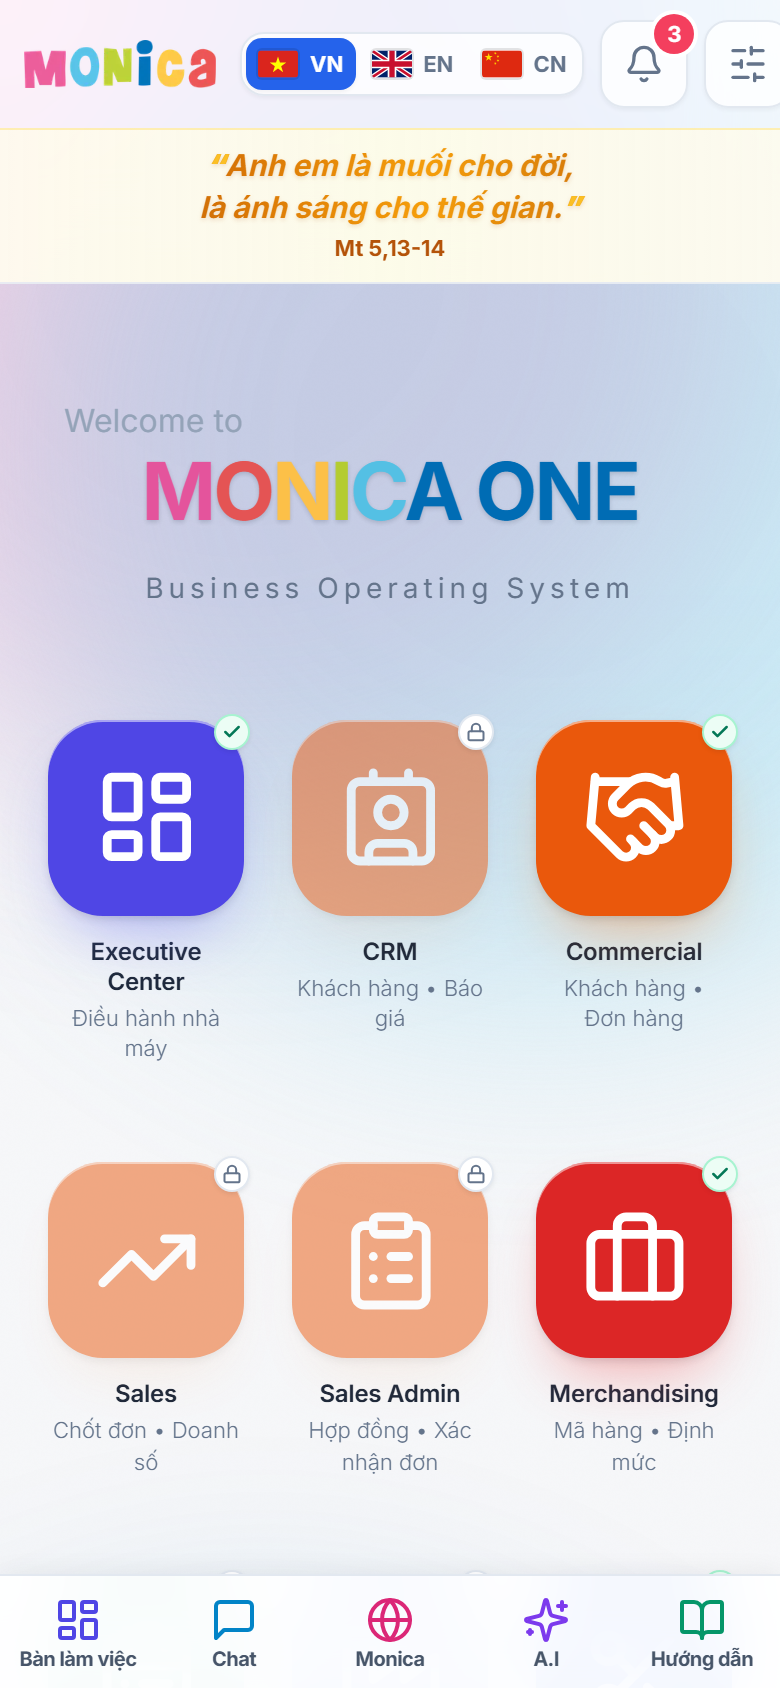
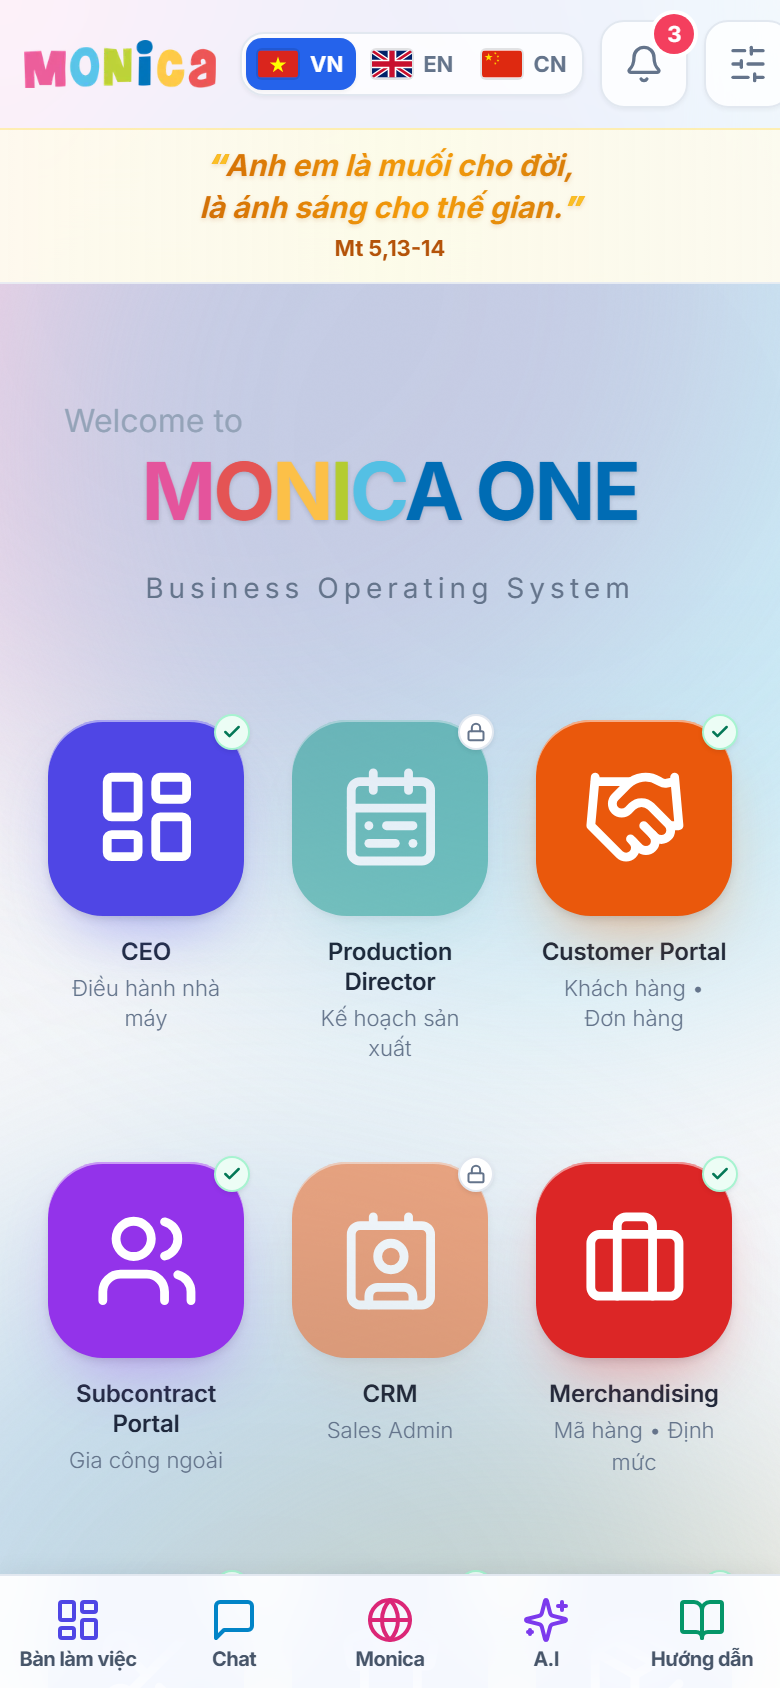
feat(trang chủ): Business Launcher v2 — xếp theo tổ chức doanh nghiệp, 15 ô
Board Directive 06/08/2026 — *Homepage Business Launcher v2*.

TRẬT TỰ — 15 ô, đúng thứ tự Board xếp
  ① CEO · Production Director · Customer Portal · Subcontract Portal · CRM
  ② Merchandising · Cutting · Sewing · Finishing · Quality
  ③ Kho NPL · Kho thành phẩm · Shipment · Finance · Human Resources

ĐỔI TÊN
  Executive Center → CEO          · Planning   → Production Director
  Commercial       → Customer Portal · Subcontract → Subcontract Portal
Phụ đề: Quality → "QA • QC • KCS" · CRM → "Sales Admin" ·
        Subcontract → "Gia công ngoài" · Finance → "Kế toán"

ẨN 9 Ô — ⛔ KHÔNG XOÁ MODULE NÀO
`AN_KHOI_TRANG_CHU` chỉ điều khiển Trang chủ. Chín App vẫn nằm trong `MODULES`,
vẫn có route, vẫn chịu đúng phân quyền cũ — đúng câu Board ghi: *"Modules remain
in the system and can still be accessed by route or permission."*

⚠ MỘT CHỖ LỆCH TRONG CHỈ THỊ — tôi đọc thế này, Board đính chính nếu sai:
Danh sách ẩn của Board có `Planning`, nhưng hàng đầu lại có `Production
Director`, mà chính Board chỉ định `Planning → Production Director`. Hai điều
⛔ không thể cùng đúng. ⇒ Tôi GIỮ `planning` *(nay là Production Director)* và
ẩn `salesAdmin` thay vào — vì Board đã đưa "Sales Admin" xuống làm **phụ đề của
CRM**, tức nó thôi đứng riêng. Cách đọc này cho đúng **15 hiện · 9 ẩn**.
Muốn ngược lại: đổi đúng một dòng trong `AN_KHOI_TRANG_CHU`.

LƯỚI — ⛔ không tiêu đề, ⛔ không vạch ngăn, ⛔ không nhóm
Vẫn là MỘT lưới phẳng như màn hình điện thoại. "Ba hàng" chỉ là hệ quả của 5
[…]

diff --git a/lib/mos/registry/business-apps.ts b/lib/mos/registry/business-apps.ts
@@ -148,7 +148,7 @@ export type ModuleItem = ModuleReady | ModuleComingSoon;
 
 // ─── ① ĐIỀU HÀNH ────────────────────────────────────────────────────────────
 const DIEU_HANH: ModuleItem[] = [
-  { id: 'executive', name: 'Executive Center', descKey: 'appDesc.executive', shortKey: 'appShort.executive', valueKey: 'appValue.executive',
+  { id: 'executive', name: 'CEO', descKey: 'appDesc.executive', shortKey: 'appShort.executive', valueKey: 'appValue.executive',
     status: 'READY', href: '/giam-doc', icon: LayoutDashboard, key: 'executive', group: 'dieuHanh', primaryUser: 'giamdoc', workIntent: 'workIntent.executive' },
 ];
 
@@ -156,7 +156,7 @@ const DIEU_HANH: ModuleItem[] = [
 const KINH_DOANH: ModuleItem[] = [
   { id: 'crm', name: 'CRM', descKey: 'appDesc.crm', shortKey: 'appShort.crm', valueKey: 'appValue.crm',
     status: 'COMING_SOON', icon: Contact, key: 'commercial', group: 'kinhDoanh', primaryUser: null, workIntent: 'workIntent.crm' },
-  { id: 'commercial', name: 'Commercial', descKey: 'appDesc.commercial', shortKey: 'appShort.commercial', valueKey: 'appValue.commercial',
+  { id: 'commercial', name: 'Customer Portal', descKey: 'appDesc.commercial', shortKey: 'appShort.commercial', valueKey: 'appValue.commercial',
     status: 'READY', href: '/buyer', icon: Handshake, key: 'commercial', group: 'kinhDoanh', primaryUser: 'buyer', workIntent: 'workIntent.commercial' },
   // ═══ 🔴 REV 6 — HAI APP MỚI THEO BOARD DIRECTIVE 06/08/2026 `EPIC 2` ═════
   // Board liệt kê **22 Business App bắt buộc có mặt** trên Homepage và ghi rõ
@@ -192,7 +192,7 @@ const KINH_DOANH: ModuleItem[] = [
 
 // ─── ③ SẢN XUẤT ─────────────────────────────────────────────────────────────
 const SAN_XUAT: ModuleItem[] = [
-  { id: 'planning', name: 'Planning', descKey: 'appDesc.planning', shortKey: 'appShort.planning', valueKey: 'appValue.planning',
+  { id: 'planning', name: 'Production Director', descKey: 'appDesc.planning', shortKey: 'appShort.planning', valueKey: 'appValue.planning',
     status: 'COMING_SOON', icon: CalendarRange, key: 'planning', group: 'sanXuat', primaryUser: null, workIntent: 'workIntent.planning' },
   { id: 'production', name: 'Production', descKey: 'appDesc.production', shortKey: 'appShort.production', valueKey: 'appValue.production',
     status: 'COMING_SOON', icon: Factory, key: 'production', group: 'sanXuat', primaryUser: null, workIntent: 'workIntent.production' },
@@ -204,7 +204,7 @@ const SAN_XUAT: ModuleItem[] = [
     status: 'READY', href: '/hoan-thanh', icon: PackageCheck, key: 'production', group: 'sanXuat', primaryUser: 'hoanthanh', workIntent: 'workIntent.finishingLeader' },
   { id: 'quality', name: 'Quality', descKey: 'appDesc.quality', shortKey: 'appShort.quality', valueKey: 'appValue.quality',
     status: 'READY', href: '/qa', icon: ShieldCheck, key: 'quality', group: 'sanXuat', primaryUser: 'qa', workIntent: 'workIntent.quality' },
-  { id: 'subcontract', name: 'Subcontract', descKey: 'appDesc.subcontract', shortKey: 'appShort.subcontract', valueKey: 'appValue.subcontract',
+  { id: 'subcontract', name: 'Subcontract Portal', descKey: 'appDesc.subcontract', shortKey: 'appShort.subcontract', valueKey: 'appValue.subcontract',
     status: 'READY', href: '/subcon', icon: Users, key: 'subcontract', group: 'sanXuat', primaryUser: 'subcon', workIntent: 'workIntent.subcontract' },
 ];
 
@@ -283,8 +283,65 @@ export const MODULES_THEO_NHOM: ReadonlyArray<{ nhom: NhomKey; apps: readonly Mo
 // thật — và cú lệch đó **⛔ không phép kiểm nào bắt được**, nó chỉ hiện ra
 // thành một cú nhảy bố cục mà ⛔ không ai truy được nguyên nhân.
 
-/** Tổng số Business App. ⛔ Không nơi nào được viết cứng con số này. */
+// ════════════════════════════════════════════════════════════════════════════
+// 🔴 LAUNCHER v2 — TRẬT TỰ THEO TỔ CHỨC DOANH NGHIỆP
+// Board Directive 06/08/2026 · *Homepage Business Launcher v2*
+//
+// Board xếp lại 15 ô theo **thứ bậc tổ chức**, ⛔ không theo dòng chảy đơn hàng
+// như Rev 4. Ba hàng năm ô, đọc từ trái sang phải, trên xuống dưới:
+//
+//   ① điều hành + đối tác   CEO · Production Director · Customer Portal
+//                           · Subcontract Portal · CRM
+//   ② tạo ra sản phẩm       Merchandising · Cutting · Sewing · Finishing · Quality
+//   ③ đỡ phía sau           Kho NPL · Kho TP · Shipment · Finance · HR
+//
+// ⚠ **⛔ KHÔNG có tiêu đề hàng, ⛔ không vạch ngăn, ⛔ không nhóm.** Ba "hàng"
+// trên chỉ là **hệ quả của lưới 5 cột**, ⛔ không phải ba khu. Trang chủ vẫn là
+// **một lưới phẳng** như màn hình điện thoại — `Product Constitution §2`.
+// ════════════════════════════════════════════════════════════════════════════
+
+/** Thứ tự 15 ô trên Trang chủ. **Thứ tự này LÀ thiết kế** — vị trí một App là
+ *  trí nhớ cơ bắp *(`P13`)*, sắp lại phải có chỉ thị Board. */
+export const TRAT_TU_TRANG_CHU: readonly string[] = [
+  'executive', 'planning', 'commercial', 'subcontract', 'crm',
+  'merchandising', 'cuttingLeader', 'sewingLeader', 'finishingLeader', 'quality',
+  'warehouse', 'warehouseFinished', 'shipment', 'finance', 'humanResources',
+];
+
+/**
+ * Chín App **ẨN khỏi Trang chủ** — Board Directive 06/08/2026 mục 3.
+ *
+ * 🔑 **ẨN, ⛔ KHÔNG XOÁ.** Chúng vẫn nằm nguyên trong `MODULES`, vẫn có route,
+ * vẫn chịu đúng phân quyền cũ. Board ghi rõ: *"Modules remain in the system and
+ * can still be accessed by route or permission."*
+ *
+ * ⚠ **MỘT CHỖ LỆCH TRONG CHỈ THỊ, VÀ ĐÂY LÀ CÁCH TÔI ĐỌC NÓ.**
+ * Danh sách ẩn của Board có `Planning`, nhưng hàng đầu lại có `Production
+ * Director` — mà chính Board chỉ định `Planning → Production Director`. Hai
+ * điều đó ⛔ không thể cùng đúng: ẩn `planning` thì hàng đầu mất một ô.
+ *
+ * ⇒ Tôi giữ `planning` *(nay tên là Production Director)* và ẩn `salesAdmin`
+ * thay vào — vì Board đã đưa *"Sales Admin"* xuống làm **phụ đề của CRM**, tức
+ * nó thôi đứng riêng. Cách đọc này cho đúng **15 hiện · 9 ẩn** như Board tính.
+ * Nếu Board muốn ngược lại, đổi đúng một dòng dưới đây.
+ */
+export const AN_KHOI_TRANG_CHU: readonly string[] = [
+  'production', 'sales', 'salesAdmin', 'costing', 'documents',
+  'platform', 'reporting', 'communication', 'ai',
+];
+
+/** 15 App hiện trên Trang chủ, **đúng thứ tự Board xếp**. */
+export const MODULES_TRANG_CHU: readonly ModuleItem[] = TRAT_TU_TRANG_CHU
+  .map((id) => MODULES.find((m) => m.id === id))
+  .filter((m): m is ModuleItem => Boolean(m));
+
+/** Tổng số Business App **trong hệ thống** *(kể cả ô ẩn khỏi Trang chủ)*.
+ *  ⛔ Không nơi nào được viết cứng con số này. */
 export const SO_BUSINESS_APP = MODULES.length;
+
+/** Số ô **hiện trên Trang chủ** — khung chờ dựng theo đây, nếu không nó sẽ vẽ
+ *  24 ô rồi nhảy còn 15 lúc dữ liệu về. */
+export const SO_O_TRANG_CHU = MODULES_TRANG_CHU.length;
 
 /** Số ô mỗi nhóm, đúng thứ tự hiển thị — khung chờ dựng theo đây. */
 export const SO_O_MOI_NHOM: readonly number[] = MODULES_THEO_NHOM.map((g) => g.apps.length);

diff --git a/app/_home/home-skeleton.tsx b/app/_home/home-skeleton.tsx
@@ -1,4 +1,4 @@
-import { SO_BUSINESS_APP } from '@/lib/mos/registry/business-apps';
+import { SO_O_TRANG_CHU } from '@/lib/mos/registry/business-apps';
 
 // ============================================================================
 // KHUNG CHỜ CỦA TRANG CHỦ
@@ -45,12 +45,12 @@ export default function HomeSkeleton() {
           phẳng. Lệch hình là **cú nhảy bố cục** đúng lúc người dùng vừa bắt
           đầu nhìn.
 
-          🔑 Số ô đọc từ `SO_BUSINESS_APP` — thêm một Business App là khung
+          🔑 Số ô đọc từ `SO_O_TRANG_CHU` — thêm một Business App là khung
           chờ **tự dài ra**, ⛔ không ai phải nhớ sửa. */}
       {/* ⚠ Chuỗi lớp này phải **giống hệt** lưới thật ở `home-content.tsx`.
           Đọc cả hai cạnh nhau trước khi sửa một bên. */}
       <div className="grid grid-cols-3 gap-x-2 gap-y-8 sm:gap-x-4 sm:gap-y-10 md:grid-cols-5">
-        {Array.from({ length: SO_BUSINESS_APP }, (_, i) => <OCho key={i} />)}
+        {Array.from({ length: SO_O_TRANG_CHU }, (_, i) => <OCho key={i} />)}
       </div>
     </div>
   );

diff --git a/app/_home/home-content.tsx b/app/_home/home-content.tsx
@@ -1,6 +1,9 @@
 'use client';
 
-import { MODULES } from '@/lib/mos/registry/business-apps';
+// 🔴 Launcher v2 — Board Directive 06/08/2026: 15 ô, trật tự theo tổ chức
+// doanh nghiệp. Chín ô còn lại ẨN khỏi Trang chủ nhưng ⛔ KHÔNG bị xoá khỏi hệ
+// thống — xem `AN_KHOI_TRANG_CHU` ở registry.
+import { MODULES_TRANG_CHU } from '@/lib/mos/registry/business-apps';
 import AppCard from './app-card';
 import { modulePermissionState } from '@/lib/mos/capability/visible-modules';
 import type { Role } from '@/lib/rbac';
@@ -326,7 +329,7 @@ export default function HomeContent({
             chờ 4 cột sẽ nhảy sang 3 cột lúc dữ liệu về — đúng thứ khung chờ
             sinh ra để tránh. */}
         <div className="mx-auto grid max-w-5xl grid-cols-3 gap-x-2 gap-y-8 sm:gap-x-4 sm:gap-y-10 md:grid-cols-5">
-          {MODULES.map((mod) => (
+          {MODULES_TRANG_CHU.map((mod) => (
             <AppCard
               key={mod.id}
               mod={mod}
